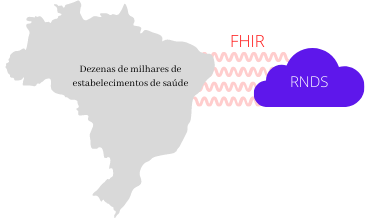
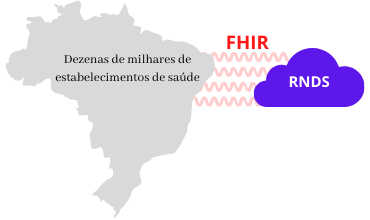
documentação

Changed region(s): [[0.1486, 0.2455, 0.5351, 0.4091], [0.773, 0.3273, 0.8919, 0.4091], [0.5946, 0.1364, 0.7432, 0.2182]]

diff --git a/guia/docs/rnds/rnds.md b/guia/docs/rnds/rnds.md
@@ -8,6 +8,8 @@ Na perspectiva de um estabelecimento de saúde, a Rede Nacional de Dados em Saú
 para a interoperabilidade em saúde no território nacional. No Brasil, é por meio da RNDS que a "informação em saúde estará disponível
 onde é necessária". 
 
+![interoperabilidade](../../static/img/rnds-brasil.png)
+
 Os [serviços](./servicos) oferecidos, no momento, estão voltados para 
 a notificação de resultados de exames de SARS-CoV-2. 
 
